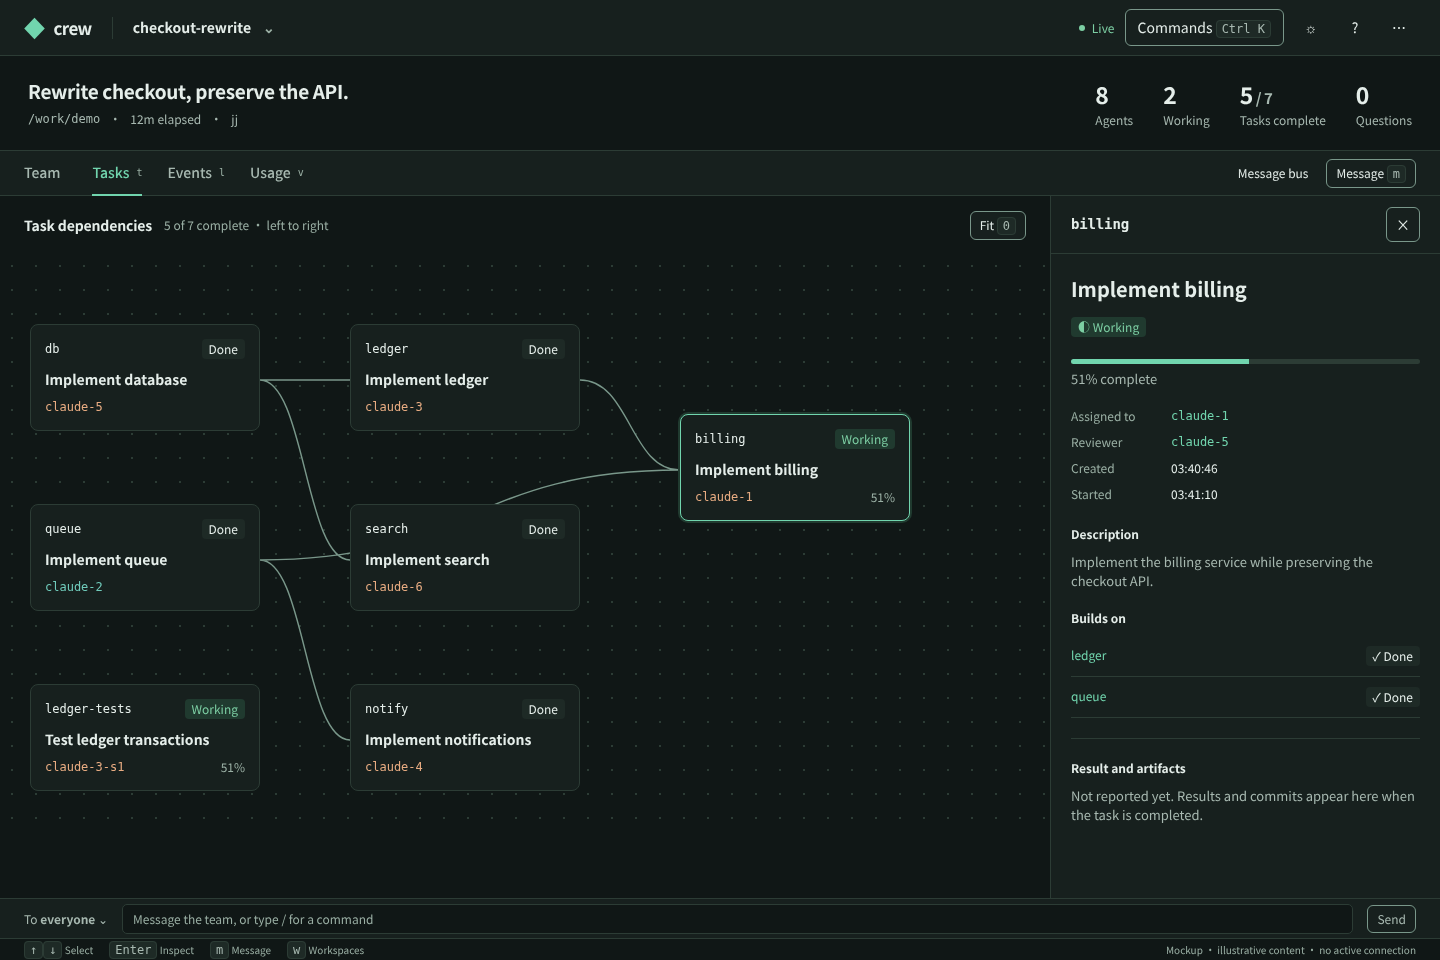
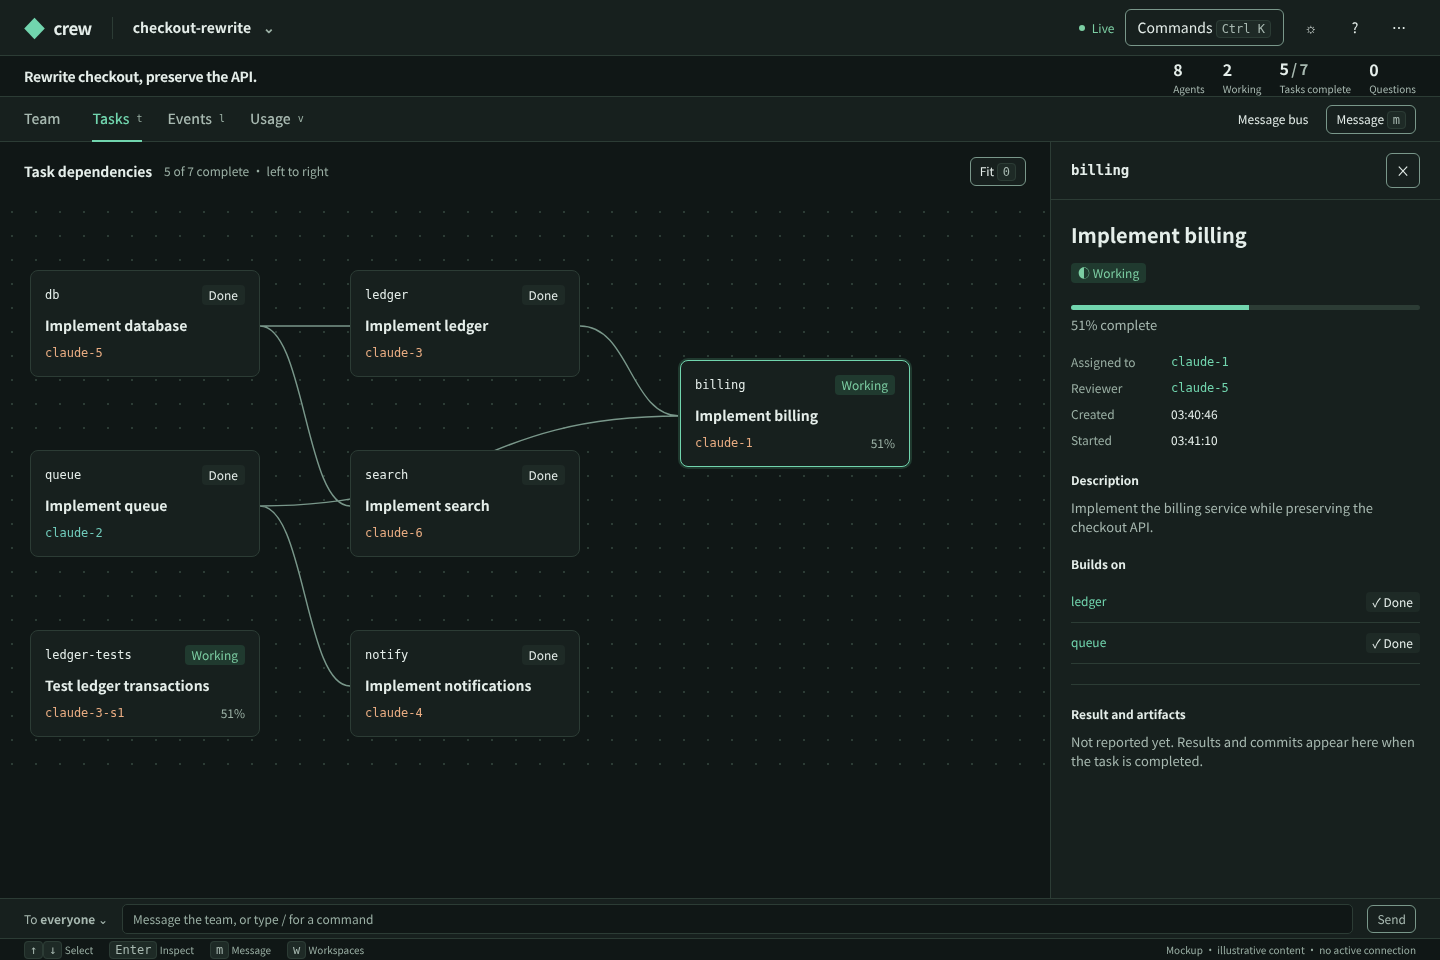
docs: clarify optional scope and compact secondary views

diff --git a/notes/web-revamp/mockups/mockups.css b/notes/web-revamp/mockups/mockups.css
@@ -15,3 +15,5 @@
 @media(max-width:767px){.replacement .body{display:block}.replacement .view{display:none}.replacement .panel{display:flex;height:100%;border-left:0}.replacement .panel-head .back{display:inline-block}.replacement .panel-scroll{flex:1}.replacement .inspector-identity{padding:14px 20px}.replacement .workspace{height:40px;min-height:40px;padding:0 20px;display:flex}.replacement .workspace h1{font-size:14px;margin:0}.replacement .subline,.replacement .metrics{display:none}.graph-space{display:none}.view{overflow:auto}.body{overflow:auto}.mobile-list{padding-bottom:12px}.top-tools .live{display:flex}.metric:last-child{display:block}.composer{position:relative;flex:none}.top-tools .live{font-size:11px}.top-tools{gap:8px}.top .grow{display:none}.top-tools .icon{width:24px;padding:4px}.top .project{min-width:0;white-space:nowrap}.top .brand{gap:6px}.top{gap:10px}.mobile-list .avatar{background:var(--raised)}.mobile-list .agent-list-row.child{margin-left:22px;border-left:2px solid var(--strong)}.task-dag-space{overflow:hidden}.metrics{gap:12px}.metric span{font-size:10px}}
 
 button:not(.flat):not(.primary),input,select,textarea,.segmented{border-color:var(--strong)}.panel-head .back{display:none}@media(max-width:767px){.replacement .panel-head .back{display:inline-block}}
+
+.compact-objective .workspace{height:40px;padding:0 24px}.compact-objective .workspace h1{font-size:14px;margin:0}.compact-objective .workspace .subline{display:none}.compact-objective .metrics{gap:18px}.compact-objective .metric b{font-size:16px}.compact-objective .metric span{font-size:10px}

diff --git a/notes/web-revamp/mockups/mockups.js b/notes/web-revamp/mockups/mockups.js
@@ -59,3 +59,5 @@ if (scene === 'attention') {
 }
 if (scene === 'dag') element.querySelector('.view').innerHTML = dag();
 if (scene === 'replacement') element.classList.add('replacement');
+
+element.classList.toggle('compact-objective', active !== 'team');

diff --git a/notes/web-revamp.md b/notes/web-revamp.md
@@ -4,7 +4,7 @@ Design for the existing `crew web` application in `web/`. This is an operator wo
 
 The direction is a quiet, legible operational interface. Use a warm light canvas or an ink dark canvas, clear typography, thin divisions, and one restrained action colour. Keep the live graph and the useful density of a developer tool. Spend space on message bodies, current work, relationships, and actionable state rather than decoration.
 
-This document replaces the visual/layout recommendations in [web-design.md §ui](web-design.md#ui) and the node appearance, interaction presentation, and usage-strip layout paragraphs of [§graphs](web-design.md#graphs), while retaining that document's security, transport, keyboard, and performance contracts and [web-multi.md](web-multi.md). The implementation must not require new daemon data or a protocol revision. The delivery tiers in §budget govern scope: T0 is required; T1 and T2 descriptions are conditional and are not acceptance requirements unless a measured allowance is assigned before work begins. Tiers take precedence over the complete future interaction descriptions in §views/§content.
+This document replaces the visual/layout recommendations in [web-design.md §ui](web-design.md#ui) and the node appearance, interaction presentation, and usage-strip layout paragraphs of [§graphs](web-design.md#graphs), while retaining that document's security, transport, keyboard, and performance contracts and [web-multi.md](web-multi.md). The implementation must not require new daemon data or a protocol revision. The delivery tiers in §budget govern scope: T0 is required; T1 and T2 descriptions are conditional and are not acceptance requirements unless a measured allowance is assigned before work begins. Tiers take precedence over the complete future interaction descriptions in §views/§content. Any new §views behaviour not explicitly named in T0 is optional under the T1 rule: it requires a measured delta within the assigned slice allowance before acceptance scope expands.
 
 ## Reference material
 
